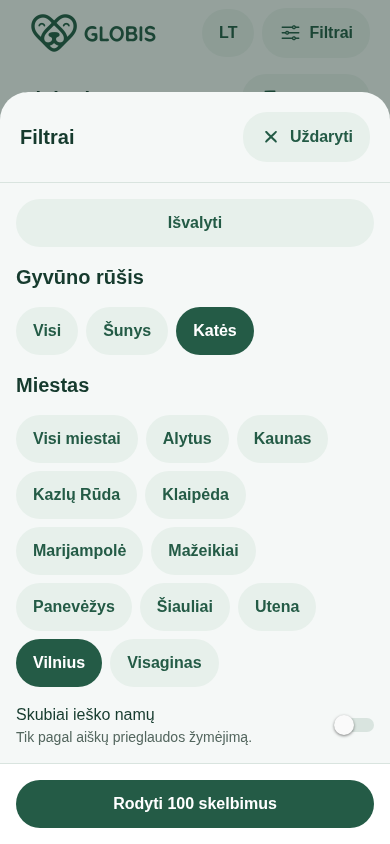
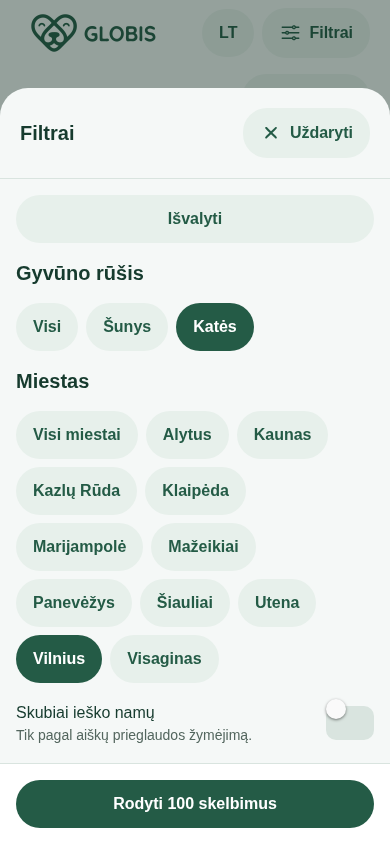
chore(beta): prepare Globis identity, privacy and safe storage recovery

diff --git a/src/mobile/GlobisApp.js b/src/mobile/GlobisApp.js
@@ -12,6 +12,7 @@ import {defaults,selectPets,roster} from './selectors.cjs';
 import {C,styles as s} from './theme';
 import {Button,Empty,Photo,Sheet,SourceLink,Status} from './ui';
 import FilterSheet from './FilterSheet';
+import AboutSheet from './AboutSheet';
 import {PetProfile,ContactSheet} from './Profiles';
 function SwipeSurface({pet,onSave,onPass,reduced,children}) {
  const x=useRef(new Animated.Value(0)).current;
@@ -21,7 +22,7 @@ function SwipeSurface({pet,onSave,onPass,reduced,children}) {
 }
 function AppContent() {
  const {state,dispatch,error,retry}=useDiscovery(), reduced=useReducedMotion();
- const [tab,setTab]=useState('discover'),[mode,setMode]=useState('cards'),[filters,setFilters]=useState({...defaults}),[filterOpen,setFilterOpen]=useState(false),[profile,setProfile]=useState(null),[contact,setContact]=useState(null),[shelter,setShelter]=useState(null),[search,setSearch]=useState(''),[toast,setToast]=useState(null);
+ const [about,setAbout]=useState(false),[tab,setTab]=useState('discover'),[mode,setMode]=useState('cards'),[filters,setFilters]=useState({...defaults}),[filterOpen,setFilterOpen]=useState(false),[profile,setProfile]=useState(null),[contact,setContact]=useState(null),[shelter,setShelter]=useState(null),[search,setSearch]=useState(''),[toast,setToast]=useState(null);
  const timer=useRef(null);
  const {height,width}=useWindowDimensions();
  const lang=state.lang,t=(lt,en)=>lang==='lt'?lt:en;
@@ -33,18 +34,19 @@ function AppContent() {
  const pass=pet=>{dispatch({type:'pass',id:pet.id});};
  const columns=width>900?4:width>600?3:2;
  const petItem=(pet,remove=false)=><View style={[s.card,{flex:1,margin:6}]}><Pressable accessibilityRole="button" accessibilityLabel={`${t('Atidaryti profilį','Open profile')}: ${pet.name}`} onPress={()=>setProfile(pet)}><Photo pet={pet} height={180}/><View style={s.cardContent}><Text style={s.title}>{pet.name}</Text><Text style={s.muted}>{pet.city}</Text><Status pet={pet} lang={lang}/></View></Pressable>{remove?<View style={{padding:8,gap:8}}><Button label={t('Susisiekti','Contact')} onPress={()=>setContact(pet)}/><Button label={t('Pašalinti','Remove')} onPress={()=>dispatch({type:'remove',id:pet.id})}/></View>:<View style={{padding:8}}><Button label={t('Išsaugoti','Save')} primary icon="heart-outline" onPress={()=>save(pet)}/></View>}</View>;
- const list=(pets,remove=false)=><FlatList key={`${tab}-${columns}`} data={pets} numColumns={columns} keyExtractor={p=>p.id} contentContainerStyle={{padding:10,paddingBottom:24}} renderItem={({item})=>petItem(item,remove)} ListEmptyComponent={<Empty title={t('Nepavyko rasti augintinių','No pets found')} body={t('Pakeiskite filtrus arba grįžkite vėliau.','Change filters or return later.')} action={t('Atstatyti filtrus','Reset filters')} onAction={()=>{setFilters({...defaults});dispatch({type:'resetPassed'});}}/>}/>;
+ const list=(pets,remove=false)=><FlatList keyboardShouldPersistTaps="handled" key={`${tab}-${columns}`} data={pets} numColumns={columns} keyExtractor={p=>p.id} contentContainerStyle={{padding:10,paddingBottom:24}} renderItem={({item})=>petItem(item,remove)} ListEmptyComponent={<Empty title={t('Nepavyko rasti augintinių','No pets found')} body={t('Pakeiskite filtrus arba grįžkite vėliau.','Change filters or return later.')} action={t('Atstatyti filtrus','Reset filters')} onAction={()=>{setFilters({...defaults});dispatch({type:'resetPassed'});}}/>}/>;
  const shelters=useMemo(()=>organizations.map(org=>{const pets=roster(PETS,org.id),active=pets.filter(eligible);return {...org,pets,active:active.length,matching:active.filter(p=>filters.species==='all'||p.species===filters.species).length};}).filter(org=>org.name.toLocaleLowerCase('lt').includes(search.toLocaleLowerCase('lt'))&&(filters.species==='all'||org.matching>0)&&(filters.city==='all'||org.city===filters.city)).sort((a,b)=>b.active-a.active),[search,filters]);
  return <SafeAreaView style={s.root} edges={['top','bottom']}><StatusBar barStyle="dark-content" backgroundColor={C.bg}/><View style={s.shell}>
- <View style={s.header}><Image source={require('../../Code_Generated_Image.png')} accessibilityLabel="GLOBIS" style={[s.logo,width<360&&{width:100}]} resizeMode="contain"/><View style={s.row}><Button label={lang.toUpperCase()} onPress={()=>dispatch({type:'language',lang:lang==='lt'?'en':'lt'})}/><Button compact={width<360} label={t('Filtrai','Filters')} icon="options-outline" onPress={()=>setFilterOpen(true)}/></View></View>
+ <View style={s.header}><Pressable accessibilityRole="button" accessibilityLabel="Apie GLOBIS" onPress={()=>setAbout(true)} style={{minHeight:48,justifyContent:'center'}}><Image source={require('../../Code_Generated_Image.png')} accessibilityLabel="GLOBIS" style={[s.logo,width<360&&{width:100}]} resizeMode="contain"/></Pressable><View style={s.row}><Button label={lang.toUpperCase()} onPress={()=>dispatch({type:'language',lang:lang==='lt'?'en':'lt'})}/><Button compact={width<360} label={t('Filtrai','Filters')} icon="options-outline" onPress={()=>setFilterOpen(true)}/></View></View>
  {error?<View style={s.content}><Text accessibilityRole="alert" style={s.body}>{error}</Text><Button label={t('Bandykite dar kartą','Retry')} onPress={retry}/></View>:null}
  {tab==='discover'?<><View style={s.toolbar}><Text accessibilityRole="header" style={s.title}>{t('Globoti','Discover')} <Text style={s.muted}>· {pending.length}</Text></Text><Button label={mode==='cards'?t('Tinklelis','Grid'):t('Kortelės','Cards')} icon={mode==='cards'?'grid-outline':'albums-outline'} onPress={()=>setMode(mode==='cards'?'grid':'cards')}/></View>
  {mode==='grid'?list(pending):pending[0]?<ScrollView contentContainerStyle={[s.content,{width:'100%',maxWidth:480,alignSelf:'center'}]}><SwipeSurface key={pending[0].id} pet={pending[0]} onSave={save} onPass={pass} reduced={reduced}><View style={s.card}><Photo pet={pending[0]} height={Math.min(420,Math.max(230,height*0.40))} gallery/><Pressable accessibilityRole="button" accessibilityLabel={`${t('Atidaryti profilį','Open profile')}: ${pending[0].name}`} onPress={()=>setProfile(pending[0])} style={s.cardContent}><Text style={s.heading}>{pending[0].name}</Text><Text style={s.body}>{[pending[0].city,lang==='lt'?pending[0].ageLt:pending[0].ageEn,pending[0].sex].filter(Boolean).join(' · ')}</Text><Text style={s.muted}>{pending[0].shelter.name}</Text><Status pet={pending[0]} lang={lang}/></Pressable></View></SwipeSurface><View style={s.row}><Button compact label={t('Praleisti','Pass')} icon="close" onPress={()=>pass(pending[0])}/><Button style={{flex:1}} primary icon="heart-outline" label={t('Išsaugoti','Save')} onPress={()=>save(pending[0])}/><Button compact label={t('Profilis','Profile')} icon="information-circle-outline" onPress={()=>setProfile(pending[0])}/></View><Button label={t('Atšaukti','Undo')} icon="arrow-undo-outline" disabled={!state.history.length} onPress={()=>dispatch({type:'undo'})}/><Text style={[s.muted,{textAlign:'center'}]}>{t('Dešinėn – išsaugoti · kairėn – praleisti','Right to save · left to pass')}</Text></ScrollView>:<Empty title={t('Nepavyko rasti augintinių','No pets found')} body={t('Pakeiskite filtrus arba atšaukite paskutinį veiksmą.','Change filters or undo your last action.')} action={state.history.length?t('Atšaukti','Undo'):t('Atstatyti filtrus','Reset filters')} onAction={()=>state.history.length?dispatch({type:'undo'}):setFilters({...defaults})}/>}</>:null}
  {tab==='saved'?<><View style={s.toolbar}><Text accessibilityRole="header" style={s.heading}>{t('Išsaugoti','Saved')} · {saved.length}</Text></View>{saved.length?list(saved,true):<Empty title={t('Dar nieko neišsaugojote','No saved pets yet')} body={t('Išsaugoti gyvūnai liks šiame įrenginyje.','Saved pets stay on this device.')} action={t('Globoti','Discover')} onAction={()=>setTab('discover')}/>}</>:null}
- {tab==='shelters'?<><View style={s.content}><Text accessibilityRole="header" style={s.heading}>{t('Prieglaudos','Shelters')}</Text><TextInput accessibilityLabel={t('Ieškoti prieglaudos','Search shelters')} placeholder={t('Ieškoti pagal pavadinimą','Search by name')} value={search} onChangeText={setSearch} style={s.input}/></View><FlatList data={shelters} keyExtractor={org=>org.id} contentContainerStyle={s.content} renderItem={({item,index})=><View style={{gap:16}}>{item.active===0&&(index===0||shelters[index-1].active>0)?<Text style={s.title}>{t('Be aktyvių Globis skelbimų','No active Globis listings')}</Text>:null}<Pressable accessibilityRole="button" onPress={()=>setShelter(item)} style={s.listCard}><Text style={s.title}>{item.name}</Text><Text style={s.muted}>{item.city}</Text><Text style={s.body}>{t('Aktyvūs Globis skelbimai','Active Globis listings')}: {item.active}</Text><Text style={s.link}>{t('Prieglauda ir jos gyvūnai','Shelter and its pets')} →</Text></Pressable></View>} ListEmptyComponent={<Empty title={t('Prieglaudų nerasta','No shelters found')} action={t('Išvalyti paiešką ir filtrus','Clear search and filters')} onAction={()=>{setSearch('');setFilters({...defaults});}}/>}/></>:null}
+ {tab==='shelters'?<><View style={s.content}><Text accessibilityRole="header" style={s.heading}>{t('Prieglaudos','Shelters')}</Text><TextInput accessibilityLabel={t('Ieškoti prieglaudos','Search shelters')} placeholder={t('Ieškoti pagal pavadinimą','Search by name')} value={search} onChangeText={setSearch} style={s.input}/></View><FlatList keyboardShouldPersistTaps="handled" data={shelters} keyExtractor={org=>org.id} contentContainerStyle={s.content} renderItem={({item,index})=><View style={{gap:16}}>{item.active===0&&(index===0||shelters[index-1].active>0)?<Text style={s.title}>{t('Be aktyvių Globis skelbimų','No active Globis listings')}</Text>:null}<Pressable accessibilityRole="button" onPress={()=>setShelter(item)} style={s.listCard}><Text style={s.title}>{item.name}</Text><Text style={s.muted}>{item.city}</Text><Text style={s.body}>{t('Aktyvūs Globis skelbimai','Active Globis listings')}: {item.active}</Text><Text style={s.link}>{t('Prieglauda ir jos gyvūnai','Shelter and its pets')} →</Text></Pressable></View>} ListEmptyComponent={<Empty title={t('Prieglaudų nerasta','No shelters found')} action={t('Išvalyti paiešką ir filtrus','Clear search and filters')} onAction={()=>{setSearch('');setFilters({...defaults});}}/>}/></>:null}
  {toast?<Pressable accessibilityRole="button" accessibilityLiveRegion="polite" onPress={()=>{if(toast.pet)setContact(toast.pet);else setToast(null);}} style={s.toast}><Text style={s.toastText}>{toast.text||toast}</Text></Pressable>:null}
  <View accessibilityRole="tablist" style={s.tabs}>{[['discover','paw-outline',t('Globoti','Discover')],['shelters','home-outline',t('Prieglaudos','Shelters')],['saved','heart-outline',`${t('Išsaugoti','Saved')}${saved.length?` (${saved.length})`:''}`]].map(([id,icon,label])=><Pressable key={id} accessibilityRole="tab" accessibilityLabel={label} accessibilityState={{selected:tab===id}} onPress={()=>setTab(id)} style={[s.tab,tab===id&&s.tabActive]}><Ionicons name={icon} size={24} color={C.green}/><Text style={s.tabText}>{label}</Text></Pressable>)}</View>
  </View>
+ {about?<AboutSheet onClose={()=>setAbout(false)} reduced={reduced}/>:null}
  {filterOpen?<FilterSheet filters={filters} pets={PETS} lang={lang} reduced={reduced} onClose={()=>setFilterOpen(false)} onApply={next=>{setFilters(next);setFilterOpen(false);}}/>:null}
  {shelter?<Sheet full title={shelter.name} reduced={reduced} onClose={()=>setShelter(null)}><Text style={s.body}>{shelter.address}</Text><Text style={s.body}>{t('Aktyvūs Globis skelbimai','Active Globis listings')}: {shelter.active}</Text><SourceLink url={shelter.url} label={t('Prieglaudos šaltinis','Shelter source')}/>{shelter.pets.length?shelter.pets.map(p=><Pressable key={p.id} accessibilityRole="button" style={s.listCard} onPress={()=>{setShelter(null);setProfile(p);}}><Text style={s.title}>{p.name}</Text><Status pet={p} lang={lang}/><Text style={s.link}>{t('Atidaryti profilį','Open profile')} →</Text></Pressable>):<Text style={s.body}>{t('Šios prieglaudos skelbimų kopijoje nėra.','No listings for this shelter in the snapshot.')}</Text>}</Sheet>:null}
  {profile?<PetProfile key={profile.id} pet={profile} lang={lang} reduced={reduced} saved={state.saved.includes(profile.id)} onClose={()=>setProfile(null)} onSave={save} onContact={pet=>{setProfile(null);setContact(pet);}} onError={notify}/>:null}

diff --git a/src/data/translations.js b/src/data/translations.js
@@ -1,6 +1,6 @@
 export const TRANSLATIONS = {
   lt: {
-    appTitle: 'Myliu tave',
+    appTitle: 'GLOBIS',
     appSubtitle: 'Lietuvos gyvūnų prieglaudos',
     tagline: 'Kiekviena širdelė nusipelnė tikrų namų',
 
@@ -34,7 +34,7 @@ export const TRANSLATIONS = {
     notNeutered: 'Nesterilizuotas',
 
     // Card badges & indicators
-    likeStamp: 'MYLIU',
+    likeStamp: 'IŠSAUGOTI',
     passStamp: 'PRALEISTI',
     verifiedShelter: 'Patikrinta prieglauda',
     tapForMorePhotos: 'Palieskite nuotrauką kitam kadrui',
@@ -44,7 +44,7 @@ export const TRANSLATIONS = {
     btnUndo: 'Atšaukti',
     btnPass: 'Praleisti',
     btnInfo: 'Apie augintinį',
-    btnLike: 'Myliu',
+    btnLike: 'Išsaugoti',
     btnLikesList: 'Pamėgti',
 
     // Match modal
@@ -61,7 +61,7 @@ export const TRANSLATIONS = {
     openInquiryForm: 'Siųsti įvaikinimo užklausą',
     copiedAlert: 'Nukopijuota į iškarpinę!',
     continueBrowsing: 'Tęsti paiešką',
-    inquiryPrefillNote: 'Laba diena, susidomėjau jūsų globojamu augintiniu per programėlę „Myliu tave“. Norėčiau atvykti susipažinti!',
+    inquiryPrefillNote: 'Laba diena, susidomėjau jūsų globojamu augintiniu per programėlę „GLOBIS“. Norėčiau atvykti susipažinti!',
 
     // Pet details modal
     detailsTitle: 'Augintinio istorija',
@@ -80,7 +80,7 @@ export const TRANSLATIONS = {
     // Likes sheet
     likesHeader: 'Pamėgti augintiniai',
     likesCountSuffix: 'išsaugoti',
-    noLikesPrompt: 'Dar neturite pamėgtų gyvūnų. Braukite korteles į dešinę arba spauskite „Myliu“!',
+    noLikesPrompt: 'Dar neturite pamėgtų gyvūnų. Braukite korteles į dešinę arba spauskite „Išsaugoti“!',
     contactShelterShort: 'Susisiekti',
 
     // Shelters View
@@ -96,7 +96,7 @@ export const TRANSLATIONS = {
   },
 
   en: {
-    appTitle: 'Myliu tave',
+    appTitle: 'GLOBIS',
     appSubtitle: 'Lithuanian Shelter Pets',
     tagline: 'Every heart deserves a real forever home',
 
@@ -157,7 +157,7 @@ export const TRANSLATIONS = {
     openInquiryForm: 'Send adoption inquiry',
     copiedAlert: 'Copied to clipboard!',
     continueBrowsing: 'Continue browsing',
-    inquiryPrefillNote: 'Hello, I saw your pet through the "Myliu tave" adoption app and would love to visit and get to know them!',
+    inquiryPrefillNote: 'Hello, I saw your pet through the "GLOBIS" adoption app and would love to visit and get to know them!',
 
     // Pet details modal
     detailsTitle: 'Pet Story',

diff --git a/src/mobile/FilterSheet.js b/src/mobile/FilterSheet.js
@@ -11,6 +11,6 @@ export default function FilterSheet({filters,pets,onApply,onClose,reduced,lang})
  <Button label={t('Išvalyti','Clear')} onPress={()=>setDraft({...defaults})}/>
  <Text style={s.title}>{t('Gyvūno rūšis','Species')}</Text><View style={s.chips}>{[['all',t('Visi','All')],['dog',t('Šunys','Dogs')],['cat',t('Katės','Cats')]].map(([id,label])=><Button key={id} label={label} selected={draft.species===id} onPress={()=>setDraft({...draft,species:id})}/>)}</View>
  <Text style={s.title}>{t('Miestas','City')}</Text><View style={s.chips}>{['all',...cities].map(city=><Button key={city} label={city==='all'?t('Visi miestai','All cities'):city} selected={draft.city===city} onPress={()=>setDraft({...draft,city})}/>)}</View>
- <View style={[s.row,{justifyContent:'space-between'}]}><View style={{flex:1}}><Text style={s.body}>{t('Skubiai ieško namų','Urgent listings')}</Text><Text style={s.muted}>{t('Tik pagal aiškų prieglaudos žymėjimą.','Only explicit shelter evidence.')}</Text></View><Switch accessibilityLabel={t('Skubiai ieško namų','Urgent listings')} value={draft.urgent} onValueChange={urgent=>setDraft({...draft,urgent})} trackColor={{true:C.green,false:C.line}}/></View>
+ <View style={[s.row,{justifyContent:'space-between'}]}><View style={{flex:1}}><Text style={s.body}>{t('Skubiai ieško namų','Urgent listings')}</Text><Text style={s.muted}>{t('Tik pagal aiškų prieglaudos žymėjimą.','Only explicit shelter evidence.')}</Text></View><Switch style={{minHeight:48,minWidth:48}} accessibilityLabel={t('Skubiai ieško namų','Urgent listings')} value={draft.urgent} onValueChange={urgent=>setDraft({...draft,urgent})} trackColor={{true:C.green,false:C.line}}/></View>
  </Sheet>;
 }

diff --git a/src/mobile/AboutSheet.js b/src/mobile/AboutSheet.js
@@ -1,0 +1,19 @@
+import React from 'react';
+import {Text} from 'react-native';
+import {Sheet,SourceLink} from './ui';
+import {styles as s} from './theme';
+import {email} from '../data/integrity.cjs';
+import {expo as config} from '../../app.json';
+export default function AboutSheet({onClose,reduced}) {
+ const support=email(config.extra?.supportEmail);
+ return <Sheet title="Apie GLOBIS" onClose={onClose} reduced={reduced}>
+ <Text style={s.title}>GLOBIS · {config.version} beta</Text>
+ <Text style={s.body}>Išsaugoti ir praleisti skelbimai bei kalba laikomi šiame įrenginyje. Paskyra nekuriama. Pasirinkimai tarp įrenginių nesinchronizuojami.</Text>
+ <Text style={s.body}>Išvalius programėlės ar naršyklės svetainės duomenis pasirinkimai pašalinami. Išorinės gyvūnų nuotraukos ir atidarytos šaltinio nuorodos gali perduoti techninius ryšio duomenis tų svetainių valdytojams.</Text>
+ <Text style={s.body}>Skelbimų prieinamumą ir visus nežinomus duomenis patikslinkite tiesiogiai su prieglauda. GLOBIS nesiunčia įvaikinimo paraiškų.</Text>
+ <Text style={s.title}>Palaikymas</Text>
+ <Text selectable style={s.body}>{support||'Palaikymo kontaktas dar nepaskelbtas.'}</Text>
+ <SourceLink url={config.extra?.privacyPolicyUrl} label="Privatumo politika"/>
+ {!config.extra?.privacyPolicyUrl?<Text style={s.muted}>Vieša privatumo politikos nuoroda dar nepaskelbta. Beta nepaskelbta parduotuvėse.</Text>:null}
+ </Sheet>;
+}

diff --git a/src/state/useDiscovery.js b/src/state/useDiscovery.js
@@ -15,6 +15,16 @@ export default function useDiscovery() {
     try { write(KEY,JSON.stringify(state)); setError(null); }
     catch { setError('Nepavyko išsaugoti pasirinkimų šiame įrenginyje.'); }
   },[state,blocked]);
-  const retry=()=>{setBlocked(false); try {write(KEY,JSON.stringify(state));setError(null);}catch {setError('Vietinė saugykla vis dar nepasiekiama.');}};
+  const retry=()=>{
+    try {
+      if(blocked) {
+        // Retry reading the original bytes. Never replace an unreadable saved state with defaults.
+        const restored=decode(read(KEY));
+        dispatch({type:'hydrate',state:restored});
+        setBlocked(false);
+      } else write(KEY,JSON.stringify(state));
+      setError(null);
+    } catch {setError('Vietinė saugykla vis dar nepasiekiama arba duomenys netinkami. Esami duomenys neperrašyti.');}
+  };
   return {state,dispatch,error,retry};
 }

diff --git a/src/components/SheltersView.js b/src/components/SheltersView.js
@@ -36,8 +36,8 @@ export default function SheltersView({
     if (!email) return;
     const subject = encodeURIComponent(
       lang === 'lt'
-        ? `Užklausa dėl gyvūnų globos („Myliu tave“ - ${shelterName})`
-        : `Inquiry regarding animal adoption ("Myliu tave" - ${shelterName})`
+        ? `Užklausa dėl gyvūnų globos („GLOBIS“ - ${shelterName})`
+        : `Inquiry regarding animal adoption ("GLOBIS" - ${shelterName})`
     );
     Linking.openURL(`mailto:${email}?subject=${subject}`);
   };

diff --git a/src/components/MatchModal.js b/src/components/MatchModal.js
@@ -33,8 +33,8 @@ export default function MatchModal({
   const handleEmail = () => {
     const subject = encodeURIComponent(
       lang === 'lt'
-        ? `Užklausa dėl augintinio: ${pet.name} (per „Myliu tave“)`
-        : `Adoption inquiry for ${pet.name} (via "Myliu tave")`
+        ? `Užklausa dėl augintinio: ${pet.name} (per „GLOBIS“)`
+        : `Adoption inquiry for ${pet.name} (via "GLOBIS")`
     );
     const body = encodeURIComponent(
       lang === 'lt'

diff --git a/src/components/ActionButtons.js b/src/components/ActionButtons.js
@@ -75,7 +75,7 @@ export default function ActionButtons({
         <Ionicons name="information" size={24} color={TOKENS.colors.sageDark} />
       </TouchableOpacity>
 
-      {/* Like / Myliu Button with Breathing Pulse */}
+      {/* Save Button with Breathing Pulse */}
       <Animated.View style={{ transform: [{ scale: breathingScale }] }}>
         <TouchableOpacity
           style={[styles.actionBtn, styles.likeBtn]}

diff --git a/tests/browser/beta.py b/tests/browser/beta.py
@@ -71,10 +71,27 @@ with sync_playwright() as p:
  page.set_viewport_size({'width':1280,'height':900})
  page.screenshot(path=str(root/'docs/screenshots/discovery-desktop.png'),full_page=True)
  page.set_viewport_size({'width':320,'height':568})
- assert page.evaluate('document.documentElement.scrollWidth <= innerWidth')
+ page.wait_for_function('document.documentElement.scrollWidth <= innerWidth')
  page.get_by_role('button',name='Filtrai',exact=True).click()
  page.get_by_role('button',name='Uždaryti',exact=True).click()
+ page.get_by_role('button',name='Apie GLOBIS',exact=True).click()
+ page.get_by_text('Palaikymo kontaktas dar nepaskelbtas.',exact=True).wait_for()
+ page.get_by_role('button',name='Uždaryti',exact=True).click()
+ # A failed storage read must not be retried by overwriting the original bytes.
+ bad=browser.new_context(viewport={'width':390,'height':844})
+ bad.route('**/*',lambda route:route.continue_() if route.request.url.startswith('http://127.0.0.1:8765') else route.abort())
+ broken=bad.new_page();broken.goto('http://127.0.0.1:8765',wait_until='networkidle')
+ broken.evaluate("localStorage.setItem('globis.choices.v1','invalid-original-bytes')")
+ broken.reload(wait_until='networkidle')
+ broken.get_by_role('button',name='Bandykite dar kartą',exact=True).click()
+ assert broken.evaluate("localStorage.getItem('globis.choices.v1')")== 'invalid-original-bytes'
+ kept=pets[0]['id']
+ broken.evaluate("value => localStorage.setItem('globis.choices.v1',JSON.stringify(value))",{'version':1,'saved':[kept],'passed':[],'history':[],'lang':'lt'})
+ broken.get_by_role('button',name='Bandykite dar kartą',exact=True).click()
+ broken.get_by_role('tab',name='Išsaugoti (1)',exact=True).wait_for()
+ assert json.loads(broken.evaluate("localStorage.getItem('globis.choices.v1')"))['saved']==[kept]
+ bad.close()
  assert not errors,errors
- assert page.evaluate('document.documentElement.scrollWidth <= innerWidth')
+ page.wait_for_function('document.documentElement.scrollWidth <= innerWidth')
  print('PASS: profile/contact source, save/reload/undo, pass/undo, card/grid filters, empty search, reserved roster, offline missing image, reduced motion, mobile/desktop no overflow; no page errors')
  browser.close()

diff --git a/README.md b/README.md
@@ -1,74 +1,30 @@
-# Myliu tave 🐾 — Lithuanian Pet Adoption App
+# GLOBIS
 
-**"Myliu tave"** is a Tinder-style pet adoption mobile app built with **Expo (React Native)** for animal shelters across Lithuania. It aggregates real animals from shelters across 11 Lithuanian cities (Vilnius, Kaunas, Klaipėda, Šiauliai, Panevėžys, Alytus, Mažeikiai, Utena, Visaginas, Kazlų Rūda, Marijampolė).
+Expo / React Native gyvūnų ir prieglaudų atradimo programėlė. Naudojama peržiūrima istorinė duomenų kopija, ne pažadas apie šiandienos gyvūnų prieinamumą. Gyvas Globok ir Meta importas išjungtas, kol nėra patvirtintų teisių ir pilnumo įrodymų.
 
-Designed following the **Organic** aesthetic anchor:
-- **Palette**: Earth tones (sage `#8B9D83`, clay `#B08B6E`, terracotta `#C66B3D`, ochre `#C08E3A`, moss `#606C38`), sand `#E8DCC7` and oat `#D4B895` surfaces. No pure white, black, or cold sterile greys.
-- **Structure**: Generous tactile rounded corners (16–32 px).
-- **Texture**: Soft tactile grain overlay (`GrainOverlay`).
-- **Motion**: Gentle organic springs (300–500 ms) and breathing pulse animations on hero like actions.
-- **Content Discipline**: Real Lithuanian rescue animals with verified shelter contacts, authentic photos, waiting-time pills, medical readiness badges, and warm Lithuanian bios.
+## Vietinis paleidimas
 
----
+Node.js >=22.13.0 (`node:sqlite`).
 
-## Features
-
-1. **Swipeable Card Stack with 20-Card Pagination**:
-   - Smooth gesture-driven card deck (swipe right to like/match, swipe left to pass).
-   - High-performance chunk loading: loads 20 cards at a time as the user swipes through all 950+ animals smoothly without memory bloat.
-   - Tactile terracotta "MYLIU" and clay "PRALEISTI" stamp seals with angle tilt physics.
-
-2. **Waiting-Time & Medical Readiness Badges**:
-   - Long-term resident badge: highlights pets waiting 180+ days in warm terracotta ("Laukia 240 d.") to prioritize animals in urgent need of adoption.
-   - Medical readiness pills: "Čipuotas" (Microchipped), "Skiepytas" (Vaccinated), and "Sterilizuotas" (Neutered).
-
-3. **Multi-Photo Gallery & Pet Details Modal**:
-   - High-resolution pet photos with tap navigation.
-   - Expandable bio sheet with shelter info, compatibility tags (*„Draugiškas su katėmis“*, *„Tinka bute“*, etc.), and personality traits.
-
-4. **"Valio! Susisiekite su prieglauda" Match Modal**:
-   - Instant celebration modal upon right-swipe.
-   - One-touch phone dialing, pre-filled email inquiry, and direct website links.
-
-5. **Lithuanian Shelters Directory ("Prieglaudos" Tab)**:
-   - Complete directory of 37 Lithuanian shelters with real addresses, phones, emails, logos, and dog/cat breakdowns.
-   - Filter shelters by city and view animal counts.
-   - "Rodyti augintinius" button to jump straight into swiping that shelter's animals.
-
-6. **Comprehensive Filters & Bilingual Support**:
-   - Species filters: **Visi / Šunys / Katės**.
-   - "Skubiausi" toggle: sorts deck by longest-waiting residents first.
-   - City filter: scrollable bar covering all 11 Lithuanian cities with animal counts.
-   - Bilingual toggle: instant **LT / EN** switching across the entire app.
-
----
-
-## Data Pipeline & Scraper
-
-The app uses the reviewed snapshots in `src/data/allPets.json` and `src/data/shelters.json`. Live Globok updates are disabled while source access and pagination remain unverified. See the [refresh policy and manual review process](docs/globok-refresh.md).
-
-```bash
+```sh
+npm ci --no-audit --no-fund
 npm test
 npm run check:data
+npm run web
+# Visų platformų eksportas:
 CI=1 npm run build
 ```
 
-Node.js >=22.13.0 is required (Discovery Engine uses `node:sqlite`). CI tests Node 22.13.0, 24 and 26. The tests run offline; the build requires dependencies installed with `npm ci`. Historical values with insufficient provenance remain in Git history. The legacy-to-current listing ID mapping is in `docs/pr1-listing-id-map.json`. A listing marked as reserved is kept in its shelter roster and omitted from general discovery. Unconfirmed availability is labelled explicitly.
+`npm run android` / `npm run ios` paleidžia Expo; native patikrai reikia Expo Go arba suderinto native build / įrenginio. Šio projekto CI atlieka eksportą, ne fizinio įrenginio testą.
 
----
+## Funkcijos ir duomenys
 
-## How to Run
+- Globoti / Prieglaudos / Išsaugoti. Kortelių ir tinklelio rodiniai naudoja tuos pačius rūšies, miesto ir tik šaltinio įrodymais pagrįstos skubos filtrus.
+- Braukimas dešinėn išsaugo, kairėn praleidžia; Atšaukti tiksliai grąžina paskutinę būseną. Pasirinkimai ir kalba saugomi vietoje. Perkrovimas jų neištrina; tarp įrenginių sinchronizavimo nėra.
+- Profiliai ir prieglaudų sąrašai siejami pagal tikslų ID. Aktyvūs skelbimai nėra prieglaudos talpa. Rezervuoti gyvūnai rodomi prieglaudos sąraše, bet ne atradime.
+- Nežinomi faktai, kontaktai ir stebėjimo laikai neišgalvojami. Dabartinė kopija neturi patikimų kontaktų ar stebėjimo laikų. Originalus šaltinis lieka pasiekiamas. Skelbimo dingimas nereiškia įvaikinimo.
+- GLOBIS #245B46, #F5F8F7 ir originalūs repo logotipo failai. Naujas Router / navigacijos karkasas neįdiegtas.
 
-### Dev Server
-```bash
-PATH="$(pwd)/.node-bin/bin:$PATH" HOME=/tmp EXPO_NO_TELEMETRY=1 npx expo start --web --port 8081
-```
+Vienintelė programėlės kopija: `src/data/allPets.json` ir `src/data/shelters.json`. [Atnaujinimo politika](docs/globok-refresh.md), [ID migracija](docs/pr1-listing-id-map.json), [beta patikros ir ribos](docs/beta-check.md), [leidimo paruošimas](docs/release-readiness.md), [privatumo informacija](docs/privacy.md).
 
-- **Web Preview**: Open [http://localhost:8081](http://localhost:8081) in your browser.
-- **Mobile (Expo Go)**: Scan the QR code displayed in the terminal using the Expo Go app.
-
-### Google Play Store Build (Android AAB)
-```bash
-PATH="$(pwd)/.node-bin/bin:$PATH" npx eas build --platform android
-```
-Configured in `app.json` under package `com.myliutave.app`.
+Discovery Engine yra atskiras vietinis prototipas: [adapteriai ir testai](scripts/discovery-engine/README.md). Viešo backend ar produkcinio duomenų atnaujinimo jis neįjungia.

diff --git a/docs/release-readiness.md b/docs/release-readiness.md
@@ -1,0 +1,24 @@
+# GLOBIS beta leidimo paruošimas
+
+Paruošta vietinė versija: package `1.1.0-beta.1`, native marketing version `1.1.0`. Native versijoje naudojama tik skaitinė forma, tinkama vėlesniam store pateikimui. Tai nėra parduotuvėje paskelbtas leidimas. EAS projektas, viešas kanalas, paskyros ir produkcinė paslauga nesukurti.
+
+## Tapatybė
+
+Display name ir npm package pavadinimas pakeisti į GLOBIS / globis. UI, laiškų šablonuose ir README pašalinti seni „Myliu tave“ pavadinimai. Palikti `ios.bundleIdentifier = com.myliutave.app`, `android.package = com.myliutave.app` ir Expo slug `myliu-tave`. Jų keitimas gali sukurti atskirą programėlę parduotuvėje, prarasti esamų diegimų atnaujinimo kelią, paveikti push/deep-link/OTA ar pasirašymo konfigūraciją. Esamo store / EAS projekto savininkystė ir išleidimų istorija nėra patikrinta. Identifikatorių migracija nevykdoma be atskiro savininko sprendimo. Android versionCode ir iOS buildNumber nedidinami spėjant istoriją: prieš store build reikia patikrinti jau naudotas reikšmes.
+
+## Originalūs failai
+
+Vizualiai patikrinti repo failai: `Code_Generated_Image.png` — 512×160 wordmark; `(1).png` — 512×512 programėlės ženklas; `(2)`, `(3)`, `(4)` — 400×333 ženklai. Naudojami originalai, ne generuota kopija. App icon ir favicon nukreipti į `(1).png`; pašalinta Expo starter adaptiveIcon konfigūracija, Android naudoja bendrą icon. **Parduotuvės pateikimas blokuotas**: prieš jį reikia patikrinti / paruošti 1024×1024 nepermatomą iOS ikoną ir Android mask / monochrome safe-zone rezultatą. Dabartinė 512 px ikona su apvaliais kampais nėra patvirtintas App Store asset.
+
+## Prieš viešą beta
+
+- Savininkas pasirenka platinimo kanalą ir patvirtina išleidimą. Ši užduotis nieko viešai nediegia.
+- Patvirtinti duomenų ir nuotraukų naudojimo teises, aktualumą bei šaltinio aprėptį. Live Globok / Meta lieka išjungti.
+- Užpildyti `app.json` → `expo.extra.supportEmail` ir `privacyPolicyUrl` tikrais savininko patvirtintais duomenimis; dabar jie null, o „Apie GLOBIS“ tai aiškiai nurodo. Pasiekiama paspaudus logotipą.
+- Peržiūrėti [privatumo projektą](privacy.md), paskelbti patvirtintą URL ir užpildyti store privatumo formas. Neišgalvoti juridinio asmens ar kontaktų.
+- Native įrenginiuose patikrinti save/reload, gestus, safe areas, didelį šriftą, screen reader, permission / offline būsenas ir kontaktų perdavimą kitoms programėlėms. [Web beta įrodymai](beta-check.md) nepakeičia native bandymo.
+- Patikrinti signing, store/EAS tapatybę, build numerius ir atnaujinimo kelią. Tik tada ruošti pasirašytą build ir originaliais ekranais pagrįstus store screenshotus.
+
+## Atskirai planuojami darbai
+
+Paskyros / autentifikacija: [#19](https://github.com/nojusdr-lab/globis/issues/19), įvaikinimo paraiškos: [#20](https://github.com/nojusdr-lab/globis/issues/20), Globis AI: [#21](https://github.com/nojusdr-lab/globis/issues/21). Šiame beta etape nėra jų imitacijos, sėkmės pranešimų ar nepatvirtintų išorinių paslaugų.

diff --git a/docs/privacy.md b/docs/privacy.md
@@ -1,0 +1,11 @@
+# GLOBIS privatumo informacija — beta projektas
+
+Tai įgyvendintos beta elgsenos aprašymas, dar ne savininko patvirtinta vieša privatumo politika. Duomenų valdytojo juridinis pavadinimas, palaikymo / privatumo kontaktas ir viešas politikos URL turi būti pateikti prieš platinimą. Nė vienas kontaktas neišgalvotas.
+
+- Programėlė šiame etape neregistruoja paskyrų, nesiunčia įvaikinimo paraiškų ir neturi pridėtos serverinės pasirinkimų sinchronizacijos ar analitikos.
+- Išsaugotų / praleistų skelbimų ID, iki 100 atšaukimo įvykių ir kalba laikomi vietoje. Web naudoja naršyklės localStorage; native – Expo SQLite kv-store. Šie duomenys laikomi iki programėlės / svetainės duomenų išvalymo. Įrenginio atsarginės kopijos priklauso nuo OS nustatymų.
+- Nuotraukos kraunamos iš istorinių skelbimų URL; tinklo užklausa gali atskleisti IP ir techninius ryšio duomenis nuotraukų serveriui. Originalaus skelbimo atidarymas perduoda naršymą trečiosios šalies svetainei ir jos taisyklėms.
+- Skambučio, el. pašto ir dalijimosi veiksmai perduodami įrenginio programėlėms. Šioje kopijoje patvirtintų telefono / el. pašto kontaktų nėra; rodoma šaltinio nuoroda. GLOBIS nepatvirtina paraiškos gavimo ar įvaikinimo.
+- Norint ištrinti vietinius pasirinkimus, išvalyti GLOBIS programėlės arba naršyklės svetainės duomenis. Pašalinus vieną gyvūną iš Išsaugoti, jo ID pašalinamas iš išsaugotų pasirinkimų ir atšaukimo istorija išvaloma.
+
+Prieš atveriant išorinį beta kanalą būtina savininko peržiūra: duomenų valdytojas ir kontaktas, šaltinių / nuotraukų teisės, saugojimo ir vartotojo teisių informacija, store privatumo formos bei tikras tinklo elgesys fiziniuose įrenginiuose. Bet kuri nauja paskyrų, serverio, analitikos ar AI integracija reikalauja naujo šio aprašo vertinimo.
